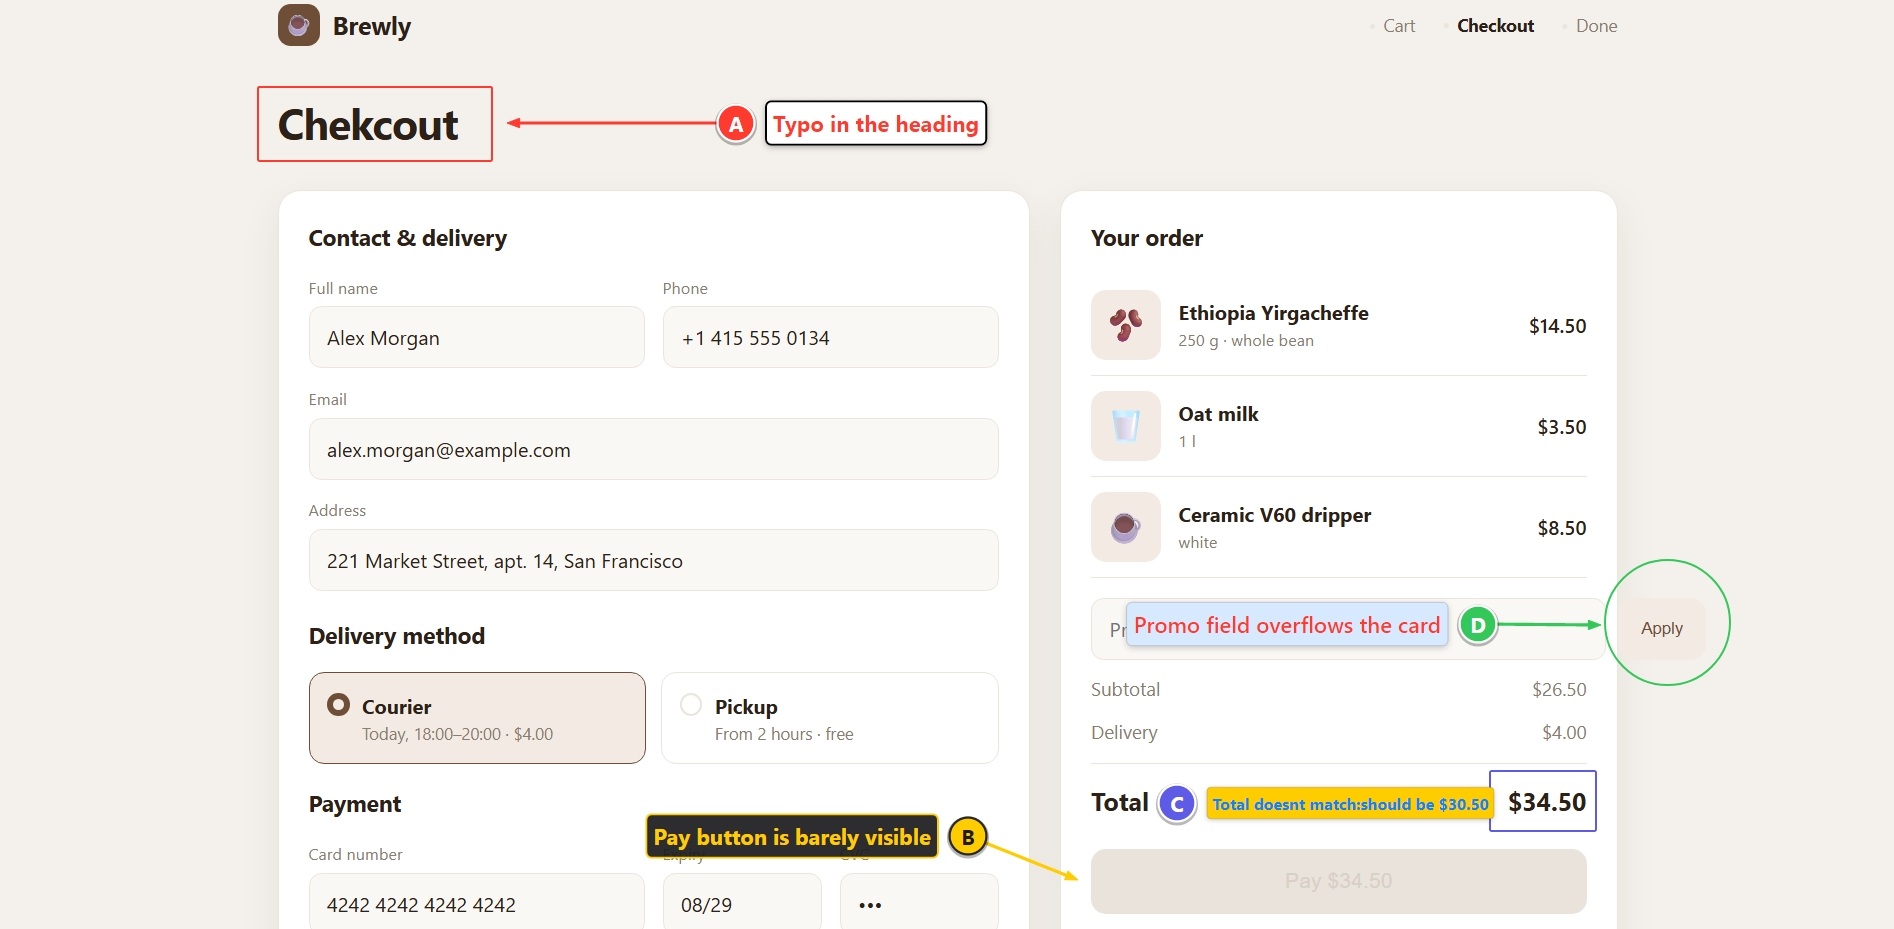
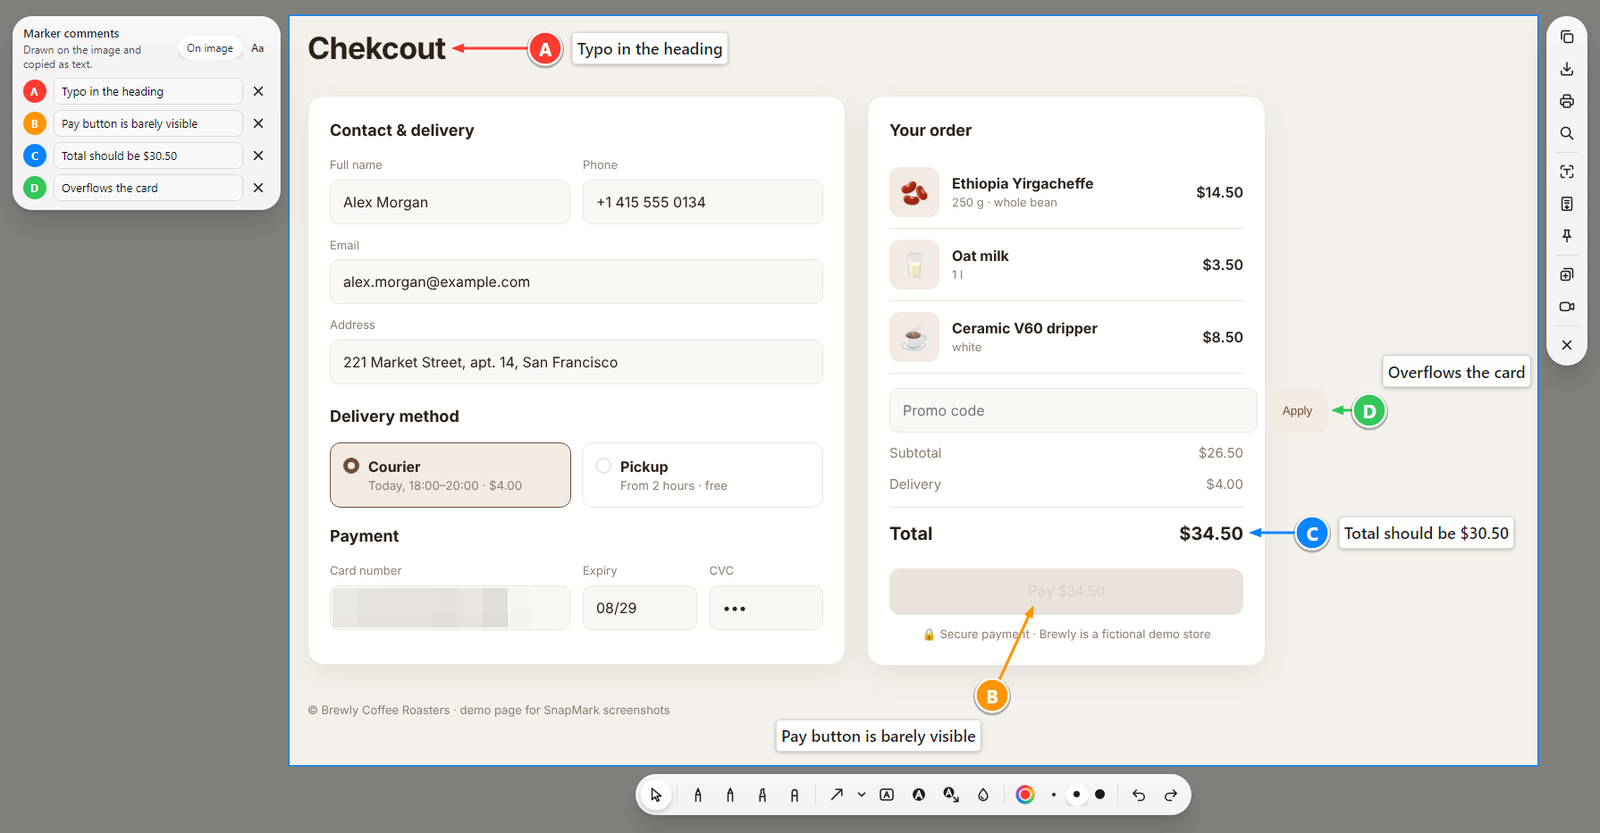
Docs: new screenshots for all current features (README, site)
Claude-Session: https://claude.ai/code/session_01JM7ERjfB3ut7J1t5TBYyeA

diff --git a/docs/index.html b/docs/index.html
@@ -150,9 +150,14 @@
     <h2 data-i18n="g.title">See it in action</h2>
     <p class="sub" data-i18n="g.sub">Real screenshots, made with SnapMark itself.</p>
     <div class="gallery">
-      <figure><img src="media/paste-chat.png" alt="" loading="lazy"><figcaption data-i18n="g1">One Ctrl+V — image and comments together</figcaption></figure>
+      <figure><img src="media/paste-chat.png" alt="" loading="lazy"><figcaption data-i18n="g1">One Ctrl+V — the image and the comments arrive together</figcaption></figure>
       <figure><img src="media/tools.png" alt="" loading="lazy"><figcaption data-i18n="g2">Every object has its own style panel</figcaption></figure>
-      <figure><img src="media/recording.png" alt="" loading="lazy"><figcaption data-i18n="g3">Screen recording with format, fps and audio</figcaption></figure>
+      <figure><img src="media/steps.png" alt="" loading="lazy"><figcaption data-i18n="g3">Step-by-step guide: every click becomes a screenshot with a marker</figcaption></figure>
+      <figure><img src="media/ocr.png" alt="" loading="lazy"><figcaption data-i18n="g4">Text recognition: select words right on the picture, like in an editor</figcaption></figure>
+      <figure><img src="media/recording.png" alt="" loading="lazy"><figcaption data-i18n="g5">Screen recording: clicks, keys and webcam for tutorials</figcaption></figure>
+      <figure><img src="media/trim.png" alt="" loading="lazy"><figcaption data-i18n="g6">Trim a recording and export the clip as a GIF</figcaption></figure>
+      <figure><img src="media/longshot.png" alt="" loading="lazy"><figcaption data-i18n="g7">Scrolling screenshot of a whole page</figcaption></figure>
+      <figure><img src="media/settings.png" alt="" loading="lazy"><figcaption data-i18n="g8">Settings in a native macOS-like style</figcaption></figure>
     </div>
   </section>
 
@@ -200,7 +205,7 @@
     "f9.t": "Скрыть личное", "f9.d": "Размытие и пиксели для паролей, почты и лиц. В видео — подсветка кликов и показ сочетаний клавиш для обучающих роликов.",
     "f6.t": "Везде", "f6.d": "Windows, macOS и Linux. English, Русский, Deutsch, Français, Italiano, Español.",
     "g.title": "Как это выглядит", "g.sub": "Настоящие скриншоты, сделанные самим SnapMark.",
-    "g1": "Один Ctrl+V — картинка и комментарии вместе", "g2": "У каждого объекта своя панель стиля", "g3": "Запись экрана: формат, кадры, звук",
+    "g1": "Один Ctrl+V — картинка и комментарии приходят вместе", "g2": "У каждого объекта своя панель стиля", "g3": "Пошаговая инструкция: каждый клик — скриншот с меткой", "g4": "Распознавание текста: выделяй слова прямо на картинке, как в редакторе", "g5": "Запись экрана: клики, клавиши и камера для обучающих видео", "g6": "Обрезка записи и экспорт кусочка в GIF", "g7": "Длинный скриншот всей страницы", "g8": "Настройки в нативном стиле, как в macOS",
     "d.title": "Скачать", "d.sub": "Последняя версия с GitHub Releases.", "d.installer": "Установщик", "d.portable": "Портативная",
     "d.note": "<b>Первый запуск.</b> SnapMark пока не подписан платным сертификатом, поэтому система один раз переспросит. Windows: <i>Подробнее → Выполнить в любом случае</i>. macOS: правый клик по программе → <i>Открыть</i>, затем разреши <i>Запись экрана</i>. Для видео нужен бесплатный ffmpeg — на Windows SnapMark скачает его в один клик."
   };

diff --git a/README.md b/README.md
@@ -86,8 +86,12 @@ ChatGPT/Claude, Jira, Word or an email. No more pasting images and text separate
 |---|---|
 | <img src="docs/media/paste-chat.png" alt="One Ctrl+V — the image and the comments arrive together"> | <img src="docs/media/tools.png" alt="Every object has its own style panel"> |
 | One Ctrl+V — the image and the comments arrive together | Every object has its own style panel |
-| <img src="docs/media/recording.png" alt="Screen recording: format, frame rate, audio and devices"> | |
-| Screen recording: format, frame rate, audio and devices | |
+| <img src="docs/media/steps.png" alt="Step-by-step guide: every click becomes a screenshot with a marker"> | <img src="docs/media/ocr.png" alt="Text recognition: select words right on the picture, like in an editor"> |
+| Step-by-step guide: every click becomes a screenshot with a marker | Text recognition: select words right on the picture, like in an editor |
+| <img src="docs/media/recording.png" alt="Screen recording: clicks, keys and webcam for tutorials"> | <img src="docs/media/trim.png" alt="Trim a recording and export the clip as a GIF"> |
+| Screen recording: clicks, keys and webcam for tutorials | Trim a recording and export the clip as a GIF |
+| <img src="docs/media/longshot.png" alt="Scrolling screenshot of a whole page"> | <img src="docs/media/settings.png" alt="Settings in a native macOS-like style"> |
+| Scrolling screenshot of a whole page | Settings in a native macOS-like style |
 
 ## Download
 

diff --git a/docs/media/README.md b/docs/media/README.md
@@ -1,6 +1,6 @@
 # Media for README, website and posts
 
-Record these with SnapMark itself (video → GIF) or ScreenToGif, ~800 px wide, 5–10 s each, light theme.
+Screenshots are rendered by `tools/Screenshots` (workflow "Screenshots") on a demo page and composed into these PNGs. `paste-chat.png` was made by hand.
 Put the files here with exactly these names, then uncomment the `<img>` lines in README.md / README.ru.md.
 
 | File | What to show |
